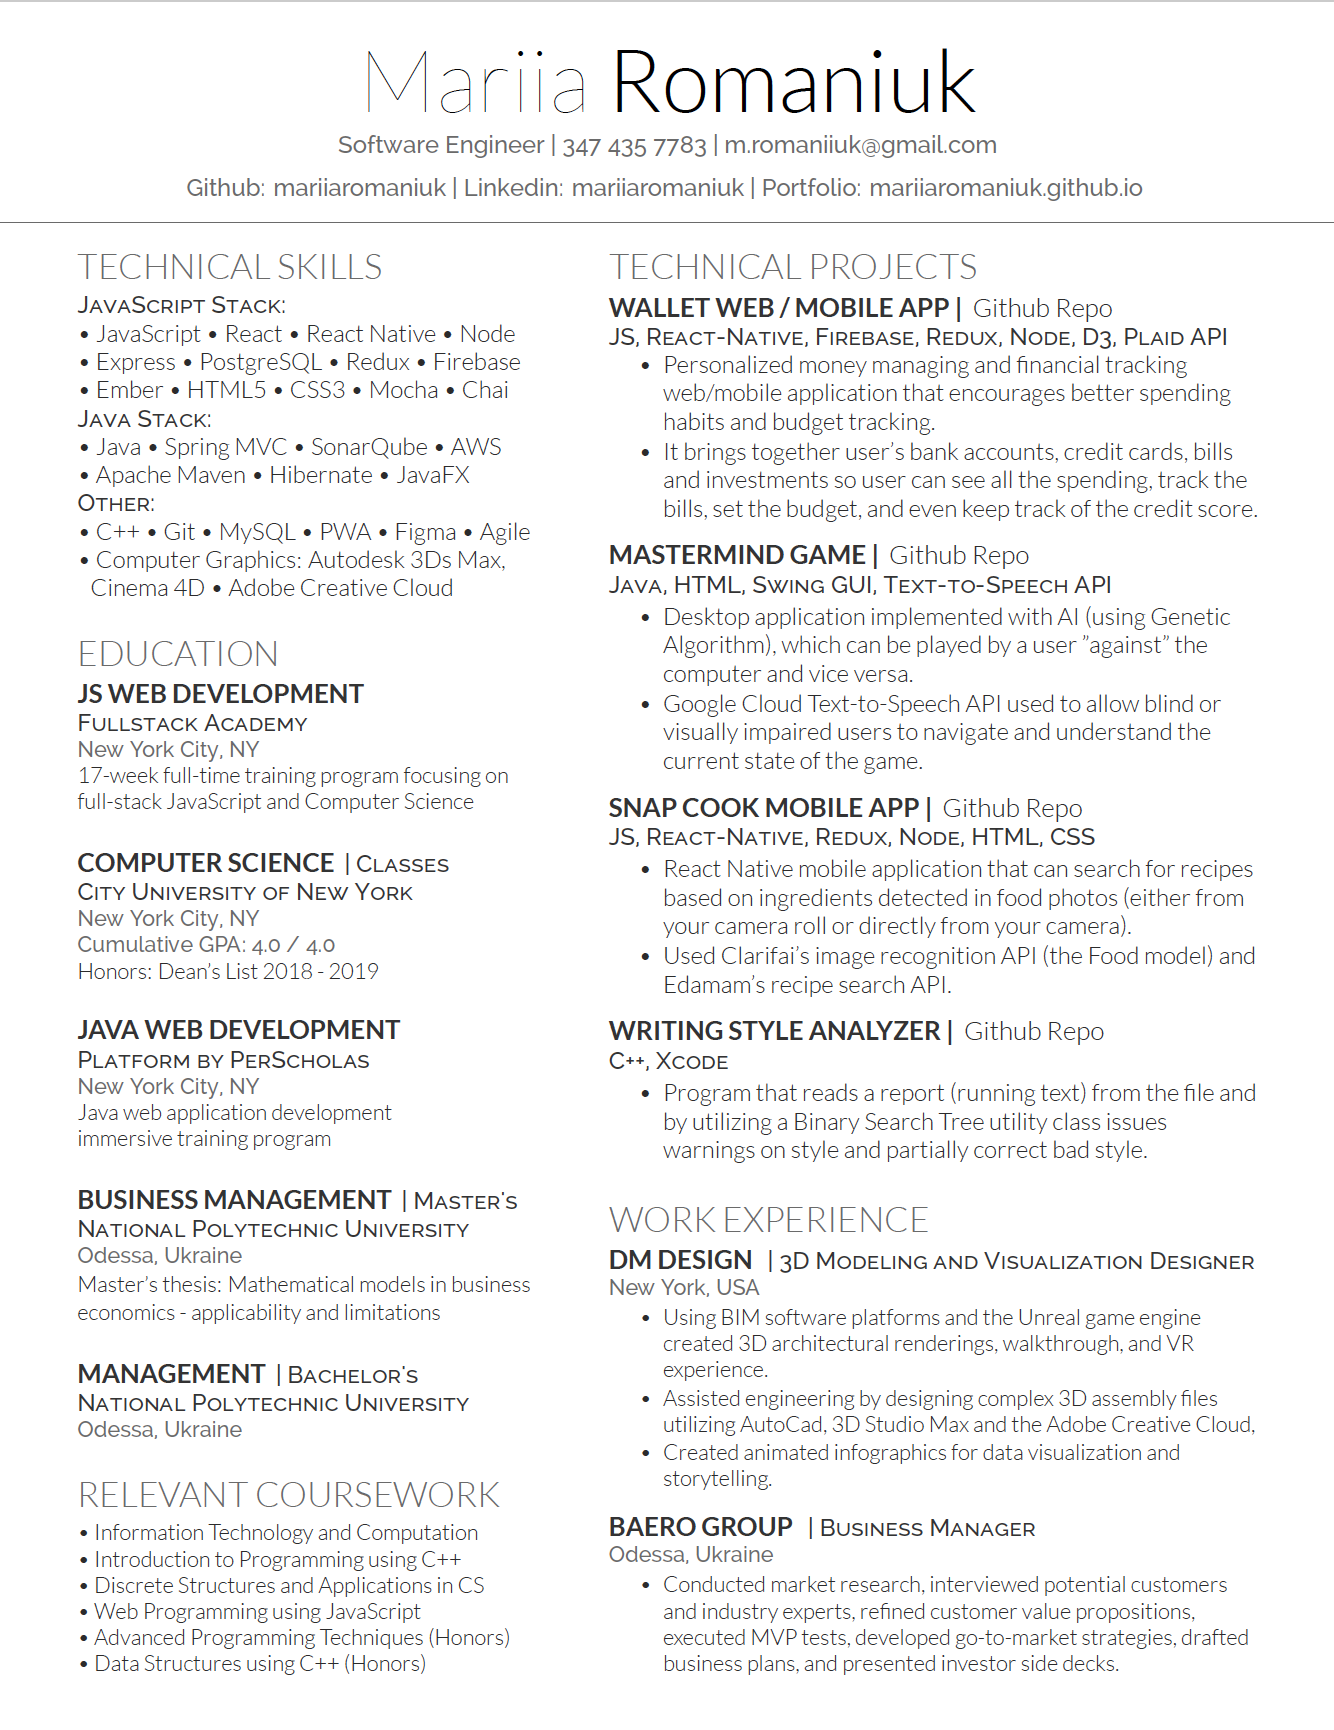
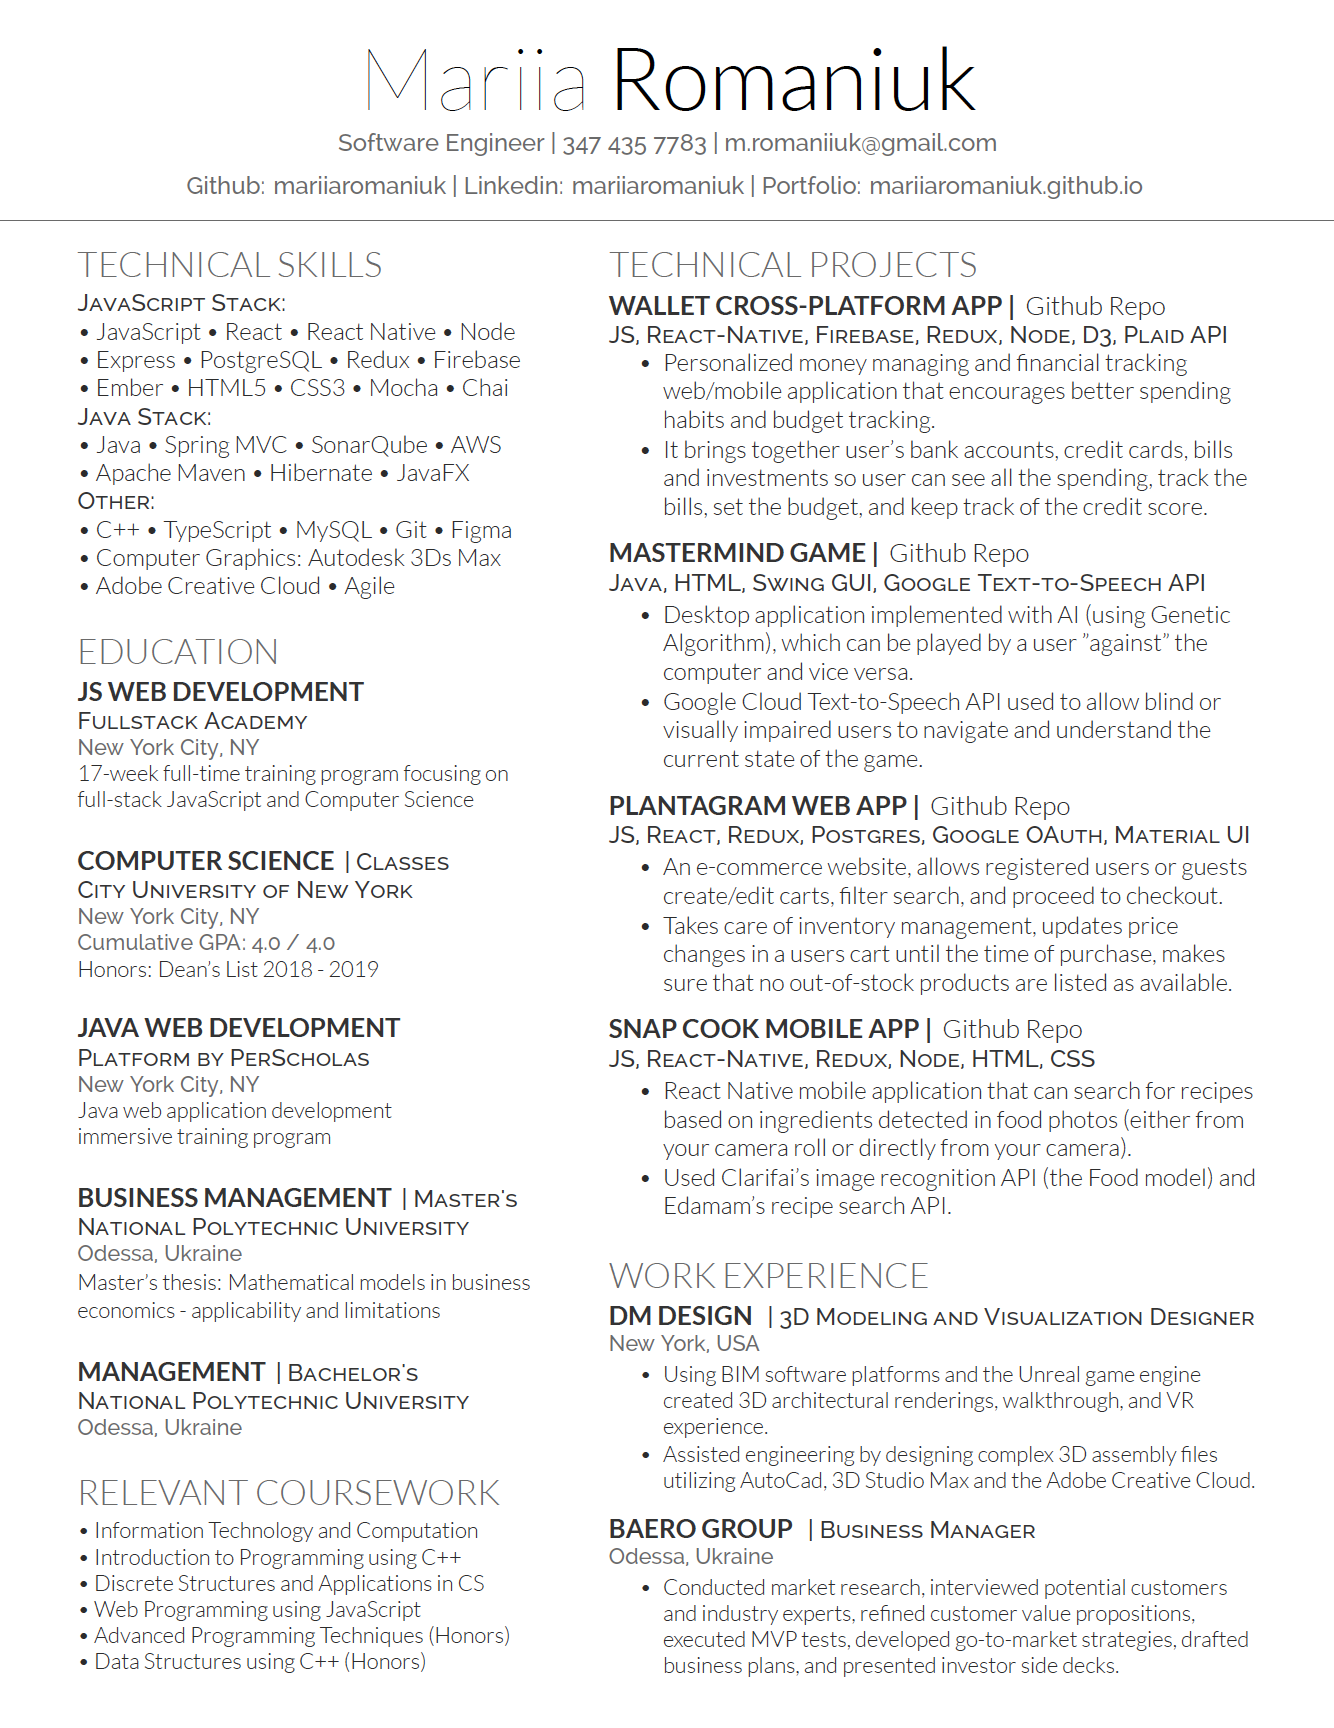
Resume updated

diff --git a/index.html b/index.html
@@ -81,7 +81,7 @@
             </ul>
           </div>
           <p>
-            Personalized money managing and financial tracking cross-platform application that encourages better spending habits and budget tracking. It brings together user's bank accounts, credit cards, bills and investments so user can see all the spending, set and manage the budget, and reach financial goals. Plaid API was used in order to connect a user's bank accounts - it provides a secure way to store user's transactional data through a multi-factor authentication process. Wallet also provides a loan calculator which calculates the monthly payment, the amount of interest paid, the total cost of credit, and payment schedules.
+            Personalized money managing and financial tracking cross-platform application that encourages better spending habits and budget tracking. It brings together user's bank accounts, credit cards, bills and investments so user can see all the spending, set and manage the budget, and reach financial goals. Plaid API was used in order to connect user's bank accounts - it provides a secure way to store user's transactional data through a multi-factor authentication process. Wallet also provides a loan calculator which calculates the monthly payment, the amount of interest paid, the total cost of credit, and payment schedules.
           </p>
           <h4 class='stacks'>THE STACK</h4>
           <ul>
